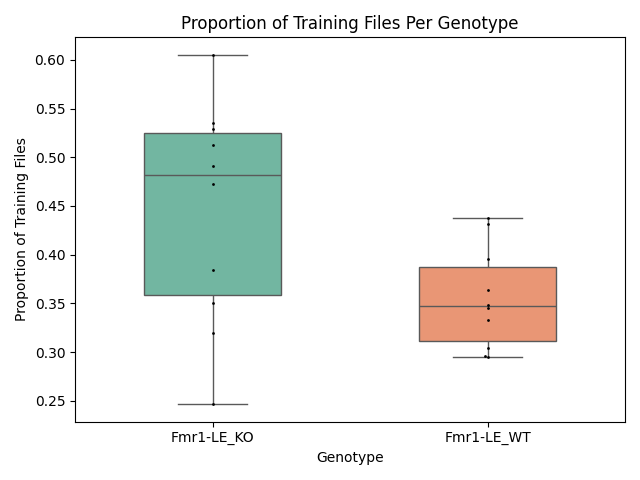
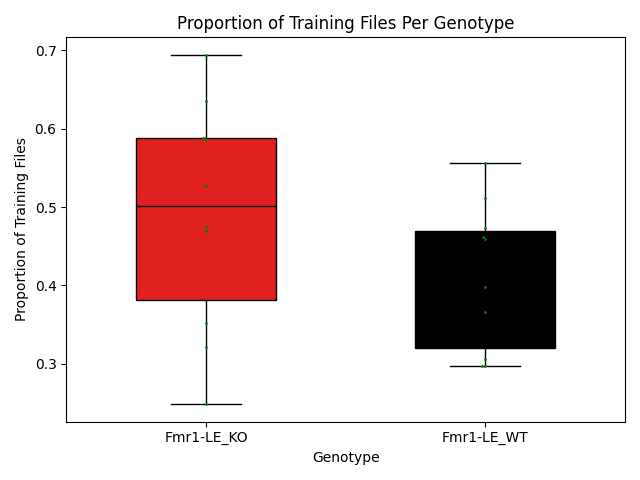
Updated Graphs

diff --git a/Genotype_grapher.py b/Genotype_grapher.py
@@ -17,7 +17,8 @@ def load_data(file_path, info_path):
 
     info_df = info_df.loc[(info_df['task'] != 'Reset')
                           & (info_df['task'] != 'Discrimination')
-                          & (info_df['task'] != 'Holding')]
+                          & (info_df['task'] != 'Holding')
+                          & (info_df['task'] != 'Tsc2_LE')]
 
     return df, info_df
 
@@ -33,6 +34,19 @@ def file_info(info_df):
     file_info_df = merged_df[merged_df['UUID'].isin(file_uuid_list)]
 
     return file_info_df
+
+def weight_drop_finder(df):
+
+    df['date'] = pd.to_datetime(df['date'], format='%Y%m%d')
+    merged_df = df.sort_values(['rat_ID', 'date'])
+
+    # Compute daily % weight change per rat
+    merged_df = merged_df.groupby(['rat_ID','UUID'])['weight'].pct_change(fill_method=None) * 100
+
+    # Flag significant drops (>7%)
+    merged_df['sig_drop_7'] = merged_df < -7
+
+    print(merged_df)
 
 def file_type_finder(df):
 
@@ -153,13 +167,13 @@ def delay_classifier(df):
 
 
 
-##################################################################################################
-##################################################################################################
-##################################################################################################
+########################################################################################################################################################
+########################################################################################################################################################
+########################################################################################################################################################
 
 
 
-def file_diff_graph(df, tasks, analysis_types, delay_interval):
+def file_diff_graph(df, tasks, analysis_types, delay_interval,genotype_color):
 
     df = df[['Genotype','task','analysis_type','Attempts_to_complete','rat_ID','Delay (s)',"Max Delay (s)","Min Delay (s)"]]
 
@@ -191,24 +205,46 @@ def file_diff_graph(df, tasks, analysis_types, delay_interval):
         y='prop_one_attempt',
         hue='Genotype',
         data=data,
-        palette='Set2',
+        palette=genotype_color,
         edgecolor='black',
         errorbar='se'
     )
-
+    
+    plt.ylim(.5, 1)
     plt.title('Proportion of 1-Attempt Trials by Genotype and Task')
     plt.ylabel('Proportion of Trials Completed in One Attempt')
     plt.xlabel('Task')
     plt.legend(title='Genotype', loc='upper left')
     
     plt.tight_layout()
-    # plt.savefig(f'C:/Users/ckill/OneDrive/Documents/GitHub/o_behavior_data_analysis_fall2025/figures/fmr1_le_file_diff_plots.png', dpi=300, bbox_inches='tight')
+    plt.savefig(f'C:/Users/ckill/OneDrive/Documents/GitHub/o_behavior_data_analysis_fall2025/figures/twox_file_diff_plots.png', dpi=300, bbox_inches='tight')
     plt.show()
 
-    tukey = pairwise_tukeyhsd(endog=data['prop_one_attempt'], groups=data['task'], alpha=0.05)
+    tukey = pairwise_tukeyhsd(endog=data['prop_one_attempt'], groups=data['Genotype'], alpha=0.05)
     
     return data, tukey
 
+def rat_session_totals(df,genotype_color):
+    df = df[['rat_ID','UUID','Genotype']]
+    
+    data = df.groupby(['rat_ID','Genotype']).agg(
+                        num_UUIDs = ('UUID','nunique')).reset_index()
+    
+    data = data.sort_values(['Genotype', 'rat_ID'])
+    order = data['rat_ID'].tolist()
+    
+    sns.barplot(x='rat_ID', y='num_UUIDs', data=data, hue="Genotype", order=order, palette=genotype_color)
+    plt.title(f"Session Totals per Genotype")
+    plt.ylabel("Number of Sessions")
+    plt.xlabel('Rat/Genotype')
+    plt.xticks(rotation=45)
+
+    plt.tight_layout()
+    plt.savefig(f'C:/Users/ckill/OneDrive/Documents/GitHub/o_behavior_data_analysis_fall2025/figures/twox_rat_sessions_totals_plots.png')
+    plt.show()
+
+    return data
+    
 def file_type_distribution_graph(df):
     
     df = df[['UUID','task','analysis_type','rat_ID']]
@@ -225,12 +261,12 @@ def file_type_distribution_graph(df):
     plt.xticks(rotation=45)
 
     plt.tight_layout()
-    # plt.savefig(f'C:/Users/ckill/OneDrive/Documents/GitHub/o_behavior_data_analysis_fall2025/figures/twox_file_type_dist_plots.png')
+    # plt.savefig(f'C:/Users/ckill/OneDrive/Documents/GitHub/o_behavior_data_analysis_fall2025/figures/tsc2_file_type_dist_plots.png')
     plt.show()
 
     return data
 
-def trial_totals_graph(df,tasks,analysis_types):
+def trial_totals_graph(df,tasks,analysis_types,genotype_color):
 
     df = df[['Genotype','rat_ID','Response','task','analysis_type']]
 
@@ -251,19 +287,19 @@ def trial_totals_graph(df,tasks,analysis_types):
 
         subset = data[data["task"] == task]
 
-        sns.barplot(x='rat_ID', y='total_trials', data=subset, hue="Genotype", order=order, palette='Set2', ci=None, ax=ax)
+        sns.barplot(x='rat_ID', y='total_trials', data=subset, hue="Genotype", order=order, palette=genotype_color, ci=None, ax=ax)
         ax.set_title(f"Total Trials for each Genotype in {task} files")
         ax.set_ylabel("Trials Completed")
         ax.set_xlabel('Rat/Genotype')
         ax.set_xticklabels(ax.get_xticklabels(), rotation=45, ha='right')
 
     plt.tight_layout()
-    # plt.savefig(f'C:/Users/ckill/OneDrive/Documents/GitHub/o_behavior_data_analysis_fall2025/figures/twox_trial_totals_plots.png')
+    plt.savefig(f'C:/Users/ckill/OneDrive/Documents/GitHub/o_behavior_data_analysis_fall2025/figures/twox_trial_totals_plots.png')
     plt.show()
 
     return data 
 
-def training_prop_graph(df):
+def training_prop_graph(df, genotype_color):
 
     df = df[['task','rat_ID','Genotype']]
 
@@ -277,8 +313,8 @@ def training_prop_graph(df):
 
     data = groups.sort_values(by=['Genotype','rat_ID']).reset_index()
 
-    sns.boxplot(x='Genotype', y='training_props', data=data, palette='Set2', width=0.5)
-    sns.swarmplot(x='Genotype', y='training_props', data=data, color='black', size=2)
+    sns.boxplot(x='Genotype', y='training_props', data=data, palette=genotype_color, width=0.5)
+    sns.swarmplot(x='Genotype', y='training_props', data=data, color='green', size=2)
 
     plt.title(f"Proportion of Training Files Per Genotype")
     plt.ylabel("Proportion of Training Files")
@@ -344,18 +380,18 @@ def d_prime_graph(df, tasks, analysis_types):
 
     return data, tukey
 
-def single_prop(df, delay_interval, tasks, analysis_types):
+def single_prop(df, delay_interval, tasks, analysis_types, genotype_color):
 
     if tasks == ['Training']:
-        label = 'Proportion of 1-Attempt Trials by Genotype Over Training Period'
         image_handle = 'training'
     else:
-        label = 'Proportion of 1-Attempt Trials by Genotype'
         image_handle = 'baseline'
 
     df['date'] = pd.to_datetime(df['date'], format='%Y%m%d')
     df['one_attempt'] = df['Attempts_to_complete'] == 1
-    df['more_than_one_attempt'] = df['Attempts_to_complete'] > 1
+    df['two_attempt'] = df['Attempts_to_complete'] == 2
+    df['three_attempt'] = df['Attempts_to_complete'] == 3
+    df['more_than_three_attempt'] = df['Attempts_to_complete'] > 3
 
     filtered = df.loc[
             (df['Max Delay (s)'] == delay_interval[0])
@@ -364,37 +400,42 @@ def single_prop(df, delay_interval, tasks, analysis_types):
             & (df['task'].isin(tasks))
             & (df['analysis_type'].isin(analysis_types))
             ]
-    
+
     groups = filtered.groupby(['rat_ID', 'Genotype']).agg(
-    trials_one_attempt=('one_attempt', 'sum'),
-    trials_more_than_one_attempt=('more_than_one_attempt', 'sum'),
-    total_trials=('Attempts_to_complete', 'count'))
+    trials_one_attempt=('one_attempt','sum'),
+    trials_two_attempt=('two_attempt','sum'),
+    trials_three_attempt=('three_attempt','sum'),
+    trials_more_than_three_attempt=('more_than_three_attempt','sum'),
+    total_trials=('Attempts_to_complete','count'))
 
-    groups['prop_one_attempt'] = groups['trials_one_attempt'] / groups['total_trials']
-    groups['prop_more_than_one'] = groups['trials_more_than_one_attempt'] / groups['total_trials']
-    grouped_rats_df = groups.sort_values(by=['Genotype', 'rat_ID']).reset_index()
+    for n in ['one', 'two', 'three', 'more_than_three']:
+        groups[f'prop_{n}_attempt'] = groups[f'trials_{n}_attempt'] / groups['total_trials']
+
+    grouped_rats_df = groups.reset_index()
     
-    prop_one_attempt_data = grouped_rats_df[['prop_one_attempt','rat_ID','Genotype']]
-    data = prop_one_attempt_data.sort_values(by=['Genotype','rat_ID']).reset_index()
+    nattempts = ['prop_one_attempt','prop_two_attempt','prop_three_attempt','prop_more_than_three_attempt']
 
-    tukey = pairwise_tukeyhsd(endog=data['prop_one_attempt'], groups=data['Genotype'], alpha=0.05)
+    # tukey = pairwise_tukeyhsd(endog=data['prop_one_attempt'], groups=data['Genotype'], alpha=0.05)
 
-    plt.figure(figsize=(8, 6))
-    sns.boxplot(x='Genotype', y='prop_one_attempt', data=data, palette='Set2', width=0.5)
+    fig, axes = plt.subplots(1, len(nattempts), figsize=(6 * len(nattempts), 5), sharey=True)
+    for ax, nattempt in zip(axes, nattempts):
+        sns.boxplot(x='Genotype', y=nattempt, data=grouped_rats_df, palette=genotype_color, width=0.5, ax=ax)
 
-    sns.swarmplot(x='Genotype', y='prop_one_attempt', data=data, color='black', size=5)
+        sns.swarmplot(x='Genotype', y=nattempt, data=grouped_rats_df, color='black', size=5, ax=ax)
 
-    plt.title(label)
-    plt.ylabel('Proportion of Trials Completed in One Attempt')
-    plt.xlabel('Genotype')
+        ax.set_title(nattempt.replace('prop_', '').replace('_attempt', '').capitalize())
+        ax.set_ylabel('Proportion of Trials Completed')
+        ax.set_xlabel('Genotype')
+        ax.set_xticklabels(ax.get_xticklabels(), rotation=45, ha='right')
 
+    plt.suptitle('Proportion of Trials Completed Across Attempt Number')
     plt.tight_layout()
-    # plt.savefig(f'C:/Users/ckill/OneDrive/Documents/GitHub/o_behavior_data_analysis_fall2025/figures/twox_{image_handle}_single_prop_plots.png')
+    plt.savefig(f'C:/Users/ckill/OneDrive/Documents/GitHub/o_behavior_data_analysis_fall2025/figures/twox_{image_handle}_n_prop_plots.png')
     plt.show()
 
-    return data, tukey
+    return grouped_rats_df
 
-def x_session_motivation_graph(df,delay_interval,tasks,lo_df):
+def x_session_motivation_graph(df,delay_interval,tasks,lo_df,genotype_color):
     n_trials = 800
     df = df[['task','Time_since_file_start_(s)','Response','rat_ID','Genotype','UUID','analysis_type','Min Delay (s)','Max Delay (s)','new_task']]
     
@@ -408,7 +449,7 @@ def x_session_motivation_graph(df,delay_interval,tasks,lo_df):
     filtered['lo_time'] = filtered['UUID'].map(lo_dict).fillna(0)   
 
     rat_data_list = []
-
+    
     for rat in filtered['rat_ID'].unique():
         rat_df = filtered.loc[filtered['rat_ID'] == rat]
         genotype = rat_df['Genotype'].iloc[0]
@@ -450,6 +491,7 @@ def x_session_motivation_graph(df,delay_interval,tasks,lo_df):
     iti_by_bin = iti_df.groupby(["rat_ID", 'task', "UUID", "bin",'Genotype'])["ITI"].median().reset_index()
 
     task = iti_by_bin["task"].unique()
+
     fig, axes = plt.subplots(1, len(task), figsize=(6 * len(task), 5), sharey=True)
 
     if len(task) == 1:
@@ -461,7 +503,7 @@ def x_session_motivation_graph(df,delay_interval,tasks,lo_df):
             mean_iti = geno_df.groupby("bin")["ITI"].mean()
             sem_iti = geno_df.groupby("bin")["ITI"].sem()
 
-            ax.errorbar(mean_iti.index, mean_iti, yerr=sem_iti, fmt='-o', label=f"{task} ({genotype})")
+            ax.errorbar(mean_iti.index, mean_iti, yerr=sem_iti, fmt='-o', color=genotype_color[genotype], label=f"{task} ({genotype})")
 
         ax.set_xticks(range(n_bins))
         ax.set_xticklabels([int(x) for x in bin_labels])
@@ -474,9 +516,8 @@ def x_session_motivation_graph(df,delay_interval,tasks,lo_df):
         ax.set_xlabel("Session progression (binned)")
         ax.set_ylabel("Median inter-trial interval (s)")
         ax.legend()
-
     plt.tight_layout()
-    # plt.savefig('C:/Users/ckill/OneDrive/Documents/GitHub/o_behavior_data_analysis_fall2025/figures/fmr1_le_xsession_motiv_plots.png')
+    plt.savefig('C:/Users/ckill/OneDrive/Documents/GitHub/o_behavior_data_analysis_fall2025/figures/twox_xsession_motiv_plots.png')
     plt.show()
     
     return iti_df
@@ -485,16 +526,25 @@ def main():
 
 ### data paths and wanted info
 
-    file_path="C:/Users/ckill/Documents/neuroscience_sterf/AuerbachLab/Fmr1-LE_data_exported_trials_20251015.csv"
-    file_info_path="C:/Users/ckill/Documents/neuroscience_sterf/AuerbachLab/Fmr1-LE_data_exported_20251015.csv"
-    wanted_columns_for_merge = ['new_task','date','UUID','rat_ID','DOB','file_name','Genotype','analysis_type','task','lo_time']
+    file_path="C:/Users/ckill/Documents/neuroscience_sterf/AuerbachLab/FXS x TSC_archive.csv"
+    file_info_path="C:/Users/ckill/Documents/neuroscience_sterf/AuerbachLab/FXS x TSC_data_exported_20250801.csv"
+    wanted_columns_for_merge = ['new_task','date','UUID','rat_ID','DOB','file_name','Genotype','analysis_type','task','lo_time','weight']
     wanted_delay_interval = (4.0,1.0)
     training_tasks = ['Training']
+    training_analysis_types = ['Training - BBN','BBN (Standard)','Tone (Single)']
     tasks = ['Rxn','TH']
     file_diff_tasks = ['Rxn','TH','Training']
     analysis_types = ["BBN (Standard)", "Tone (Single)"]
     twox_task = ['Baseline','Training']
     twox_analysis_type = ['Training - BBN','Tone (Standard)','BBN (Standard)','Tone (Single)']
+    genotype_color = {'Tsc2_LE_WT': 'k',
+                        'Tsc2_LE_Het': 'b',
+                        'Fmr1_WT-Tsc2_WT': 'k',
+                        'Fmr1_WT-Tsc2_Het': 'b',
+                        'Fmr1_KO-Tsc2_WT': 'r',
+                        'Fmr1_KO-Tsc2_Het': 'm',
+                        'Fmr1-LE_WT': 'k',
+                        'Fmr1-LE_KO': 'r'    }
     
 ### data cleaning and organization
     df, info_df = load_data(file_path, file_info_path)
@@ -508,26 +558,27 @@ def main():
 
 ## single_props
 
-    # training_single_prop_data, training_prop_tukey = single_prop(delay_df,wanted_delay_interval,training_tasks,analysis_types)
-    # baseline_single_prop_data, baseline_prop_tukey = single_prop(delay_df,wanted_delay_interval,tasks,analysis_types)
+    # training_single_prop_data = single_prop(delay_df,wanted_delay_interval,training_tasks,training_analysis_types,genotype_color)
+    # baseline_single_prop_data = single_prop(delay_df,wanted_delay_interval,file_diff_tasks,analysis_types, genotype_color)
 
     ####### look for difference in variance between sessions for each rat
 
-    ####### categorial for 2 attempts 5 attempts 10 attempts rather than just 1 or more than one
-
-    # file_diff_data, file_diff_tukey = file_diff_graph(delay_df, file_diff_tasks, analysis_types, wanted_delay_interval)
+    # file_diff_data, file_diff_tukey = file_diff_graph(delay_df, twox_task, analysis_types, wanted_delay_interval,genotype_color)
 
     # weight_diff_data = weight_diff_graph
 
 ## controls
 
     # file_dist_data = file_type_distribution_graph(delay_df)
-    # trial_totals_data = trial_totals_graph(delay_df,twox_task,twox_analysis_type)
-    # training_time_props_data, training_props_tukey = training_prop_graph(delay_df)
+    # trial_totals_data = trial_totals_graph(delay_df,twox_task,analysis_types,genotype_color)
+    # training_time_props_data, training_props_tukey = training_prop_graph(delay_df, genotype_color)
     # *
     
+    # rat_session_total_data = rat_session_totals(delay_df,genotype_color)
     ####### exclude rats with a different trial number
     
+    ####### graph amounts of each 1-4 delay time
+
     #^ double check that training files are actually training files by file name 0catch 3catch
     #^ doesn't work for fmr1_le csv since training files arent designated by 0/3catch should work for twox
 
@@ -538,8 +589,8 @@ def main():
     ### make graph for fa rate across genotype and task
 
     # weight loss and weight gain
-
-    # motivation_data = x_session_motivation_graph(delay_df,wanted_delay_interval,file_diff_tasks,lo_df)
+    # weight_drop_finder(delay_df)
+    # motivation_data = x_session_motivation_graph(delay_df,wanted_delay_interval,twox_task,lo_df, genotype_color)
 
     # show all sessions for each genotype and then do sognificance test for uniformity?
     # compare average height of each genotypes' graphs
@@ -569,7 +620,7 @@ number of th sessions: {num_th}
 number of test training sessions: {tst_num_trn}
 number of test rxn sessions: {tst_num_rxn}
 number of test th sessions: {tst_num_th}
-data: {motivation_data}
+data: {file_diff_tukey}
 ''')
     
 if __name__ == "__main__":
